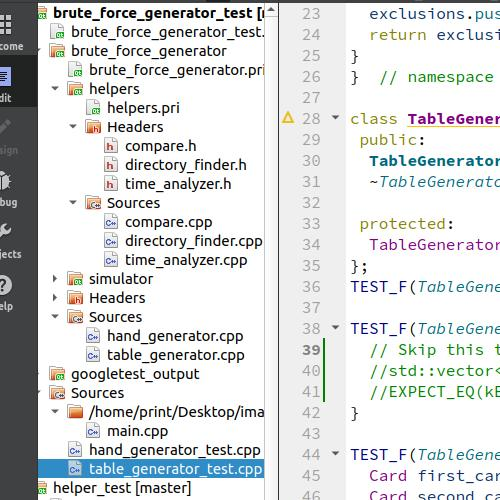
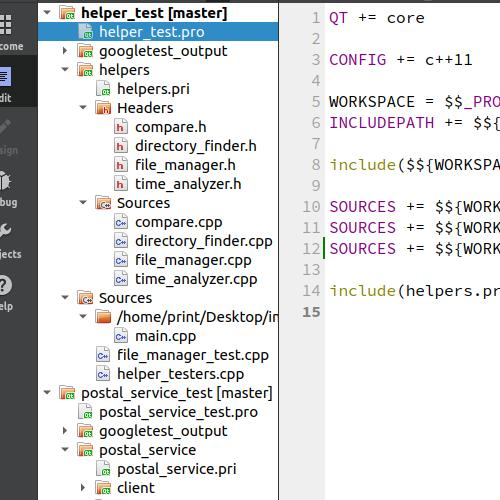
moved file manager to helpers

diff --git a/source/executables/ipc_server_runner/regression_test/ipc_server_regression_test.cpp b/source/executables/ipc_server_runner/regression_test/ipc_server_regression_test.cpp
@@ -6,7 +6,7 @@
 #include "google_test/testing_def.h"
 #include "helpers/directory_finder.h"
 #include "helpers/memory_helper.hpp"
-#include "helpers/file_manager/file_manager.h"
+#include "helpers/file_manager.h"
 #include "postal_service/postal_service.h"
 #include "postal_service/utility/mail_distributor_queue.h"
 #include "postal_service/utility/post_card_queue.h"

diff --git a/source/libraries/image_recognition/template_recognition/simple/simple_recognition_test.cpp b/source/libraries/image_recognition/template_recognition/simple/simple_recognition_test.cpp
@@ -6,7 +6,7 @@
 #include "external_libraries/googletest/include/gtest/gtest.h"
 #include "google_test/testing_def.h"
 #include "helpers/directory_finder.h"
-#include "helpers/file_manager/file_manager.h"
+#include "helpers/file_manager.h"
 #include "libraries/image_recognition/template_recognition/template_recognition_interface.h"
 
 namespace recognition {

diff --git a/source/libraries/image_recognition/image_recognition_api.cpp b/source/libraries/image_recognition/image_recognition_api.cpp
@@ -2,7 +2,7 @@
 
 #include "gtest/gtest_prod.h"
 #include "helpers/directory_finder.h"
-#include "helpers/file_manager/file_manager.h"
+#include "helpers/file_manager.h"
 #include "helpers/memory_helper.hpp"
 #include "libraries/image_file_manager/image_file_manager.h"
 #include "libraries/image_recognition/template_converter/template_converter.h"

diff --git a/source/deprecated/image_ipc/ipc_server/image_command_dispatcher.h b/source/deprecated/image_ipc/ipc_server/image_command_dispatcher.h
@@ -5,7 +5,7 @@
 #include <unordered_map>
 #include "gtest/gtest_prod.h"
 #include "helpers/directory_finder.h"
-#include "helpers/file_manager/file_manager.h"
+#include "helpers/file_manager.h"
 #include "schema/compiled_files/image_request_response_commands.pb.h"
 #include "template_recognition/template_recognition_interface.h"
 

diff --git a/source/libraries/image_pipeline/crop/crop_test.cpp b/source/libraries/image_pipeline/crop/crop_test.cpp
@@ -3,7 +3,7 @@
 #include <iostream>
 
 #include "helpers/directory_finder.h"
-#include "helpers/file_manager/file_manager.h"
+#include "helpers/file_manager.h"
 #include "libraries/image_def/image_def.h"
 #include "libraries/image_pipeline/crop/vertical_crop.h"
 #include "libraries/image_def/utility/utility.h"

diff --git a/source/deprecated/image_ipc/ipc_server/ipc_server_controller.h b/source/deprecated/image_ipc/ipc_server/ipc_server_controller.h
@@ -3,7 +3,7 @@
 
 #include <chrono>
 #include <thread>
-#include "helpers/file_manager/file_manager.h"
+#include "helpers/file_manager.h"
 #include "postal_service/imail_distributor.h"
 #include "postal_service/postal_service.h"
 #include "postal_service/utility/post_card_queue.h"

diff --git a/source/libraries/image_comparer/comparer.cpp b/source/libraries/image_comparer/comparer.cpp
@@ -2,7 +2,7 @@
 
 #include <iostream>
 
-#include "helpers/file_manager/file_manager.h"
+#include "helpers/file_manager.h"
 #include "libraries/image_comparer/compare_algorithm.h"
 #include "libraries/image_def/utility/utility.h"
 #include "libraries/image_def/utility/utility.h"

diff --git a/source/libraries/image_file_manager/image_file_manager.h b/source/libraries/image_file_manager/image_file_manager.h
@@ -6,7 +6,7 @@
 
 #include "gtest/gtest_prod.h"
 #include "helpers/directory_finder.h"
-#include "helpers/file_manager/file_manager.h"
+#include "helpers/file_manager.h"
 #include "libraries/image_file_manager/image_file_manager_interface.h"
 
 namespace image_recognition {

diff --git a/source/components/poker/poker_game_controller/landmark_finder/card_reader/card_reader.cpp b/source/components/poker/poker_game_controller/landmark_finder/card_reader/card_reader.cpp
@@ -2,7 +2,7 @@
 
 #include "components/poker/poker_game_controller/landmark_finder/map_images/value_comparer.h"
 #include "helpers/directory_finder.h"
-#include "helpers/file_manager/file_manager.h"
+#include "helpers/file_manager.h"
 
 namespace poker {
 namespace {

diff --git a/source/deprecated/poker_landmark_generator/poker_landmark_generator_test.cpp b/source/deprecated/poker_landmark_generator/poker_landmark_generator_test.cpp
@@ -5,7 +5,7 @@
 #include "components/poker/poker_game_controller/definitions/six_player_config.h"
 #include "google_test/testing_def.h"
 #include "gtest/gtest.h"
-#include "helpers/file_manager/file_manager.h"
+#include "helpers/file_manager.h"
 
 namespace poker {
 

diff --git a/source/libraries/image_pipeline/filter/filter_test.cpp b/source/libraries/image_pipeline/filter/filter_test.cpp
@@ -4,7 +4,7 @@
 
 #include "gtest/gtest.h"
 #include "helpers/directory_finder.h"
-#include "helpers/file_manager/file_manager.h"
+#include "helpers/file_manager.h"
 #include "libraries/image_def/image_def.h"
 #include "libraries/image_def/utility/utility.h"
 

diff --git a/source/libraries/screenshot_creator/screenshot_creator_test.cpp b/source/libraries/screenshot_creator/screenshot_creator_test.cpp
@@ -5,7 +5,7 @@
 #include "google_test/testing_def.h"
 #include "gtest/gtest.h"
 #include "helpers/directory_finder.h"
-#include "helpers/file_manager/file_manager.h"
+#include "helpers/file_manager.h"
 
 namespace template_recognition {
 namespace {
